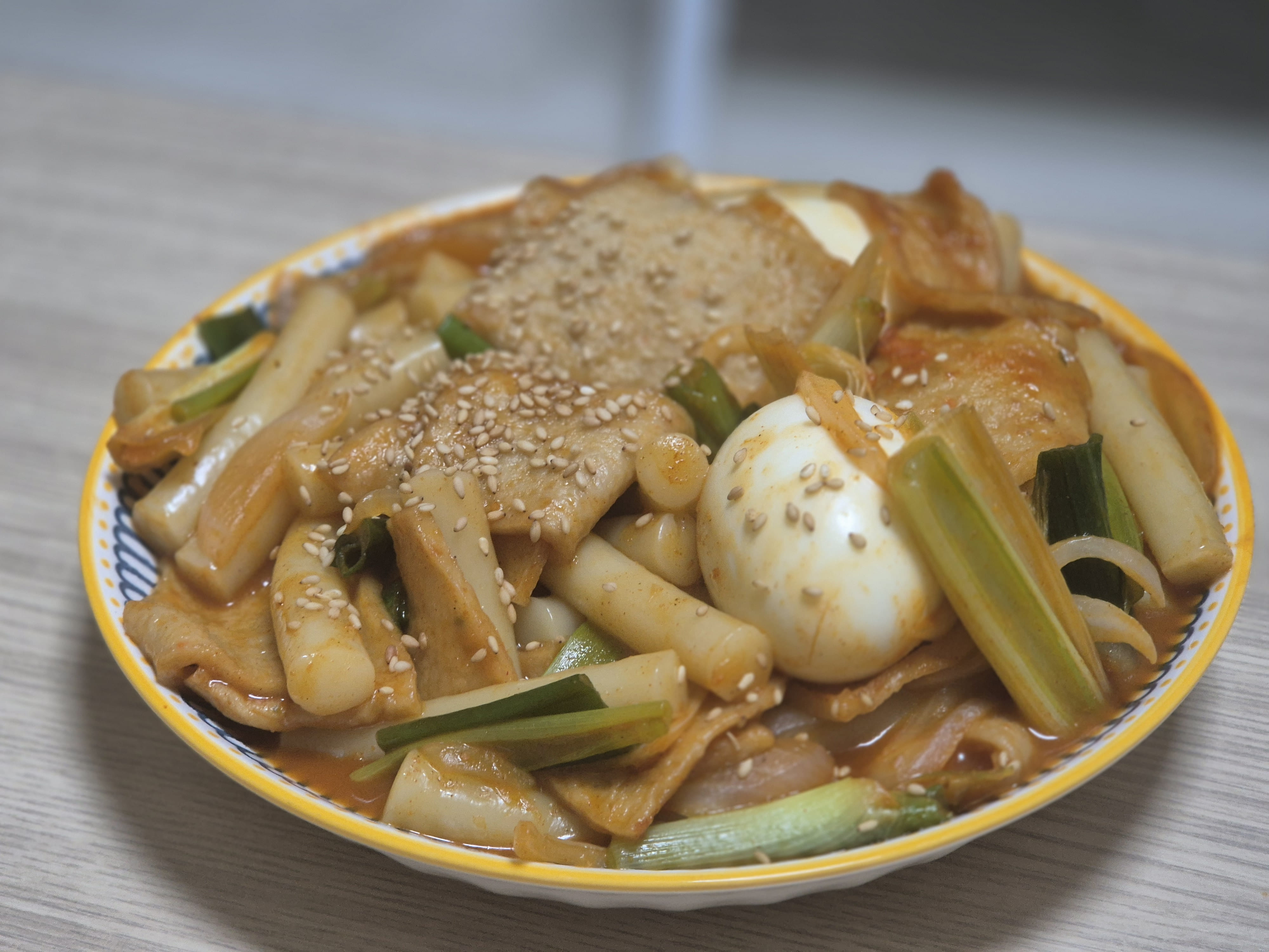
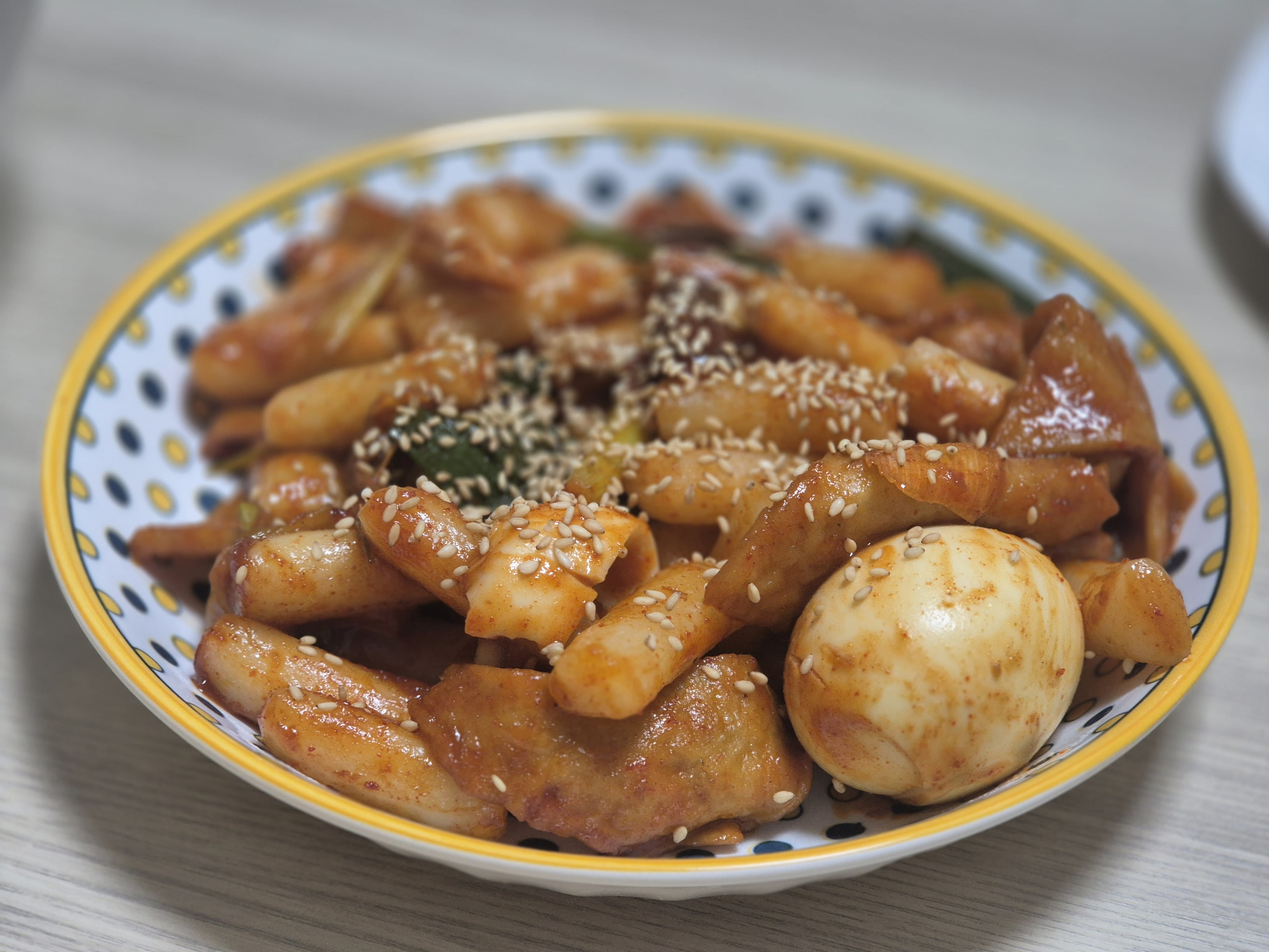
레시피 및 썸네일 수정

diff --git a/recipes/대파 닭 구이.md b/recipes/대파 닭 구이.md
@@ -22,9 +22,9 @@ thumbnail: assets/images/대파닭구이.jpg
 - 대파: 3cm 정도로 썰기
 
 ## 조리법
-1. 닭고기를 팬에 껍질 쪽으로 올려 구움
-    - 기름이 나오기 전에 닭고기가 탈 것 같으면 식용유를 조금 부어도 됨
-2. 닭기름이 나오면 뒤집고, 겉면이 익으면 식가위로 잘라서 닭기름에 볶음
+1. 닭고기를 팬에 껍질 쪽으로 올려 닭기름이 나오도록 구움
+2. 뒤집어서 굽다가 어느정도 익으면 식가위로 잘라서 계속 구움
+    - 닭기름과 수분은 키친타올 등을 이용하여 계속 빼 줌
 3. 닭고기가 익으면 대파를 올리고 설탕 1t, 굴소스 1t을 넣고 계속 볶음
     - 이 때, 토치로 겉면을 익혀주면 더 좋음
 4. 대파에서 나온 물이 어느 정도 말라서 기름만 남을 때까지 볶음
